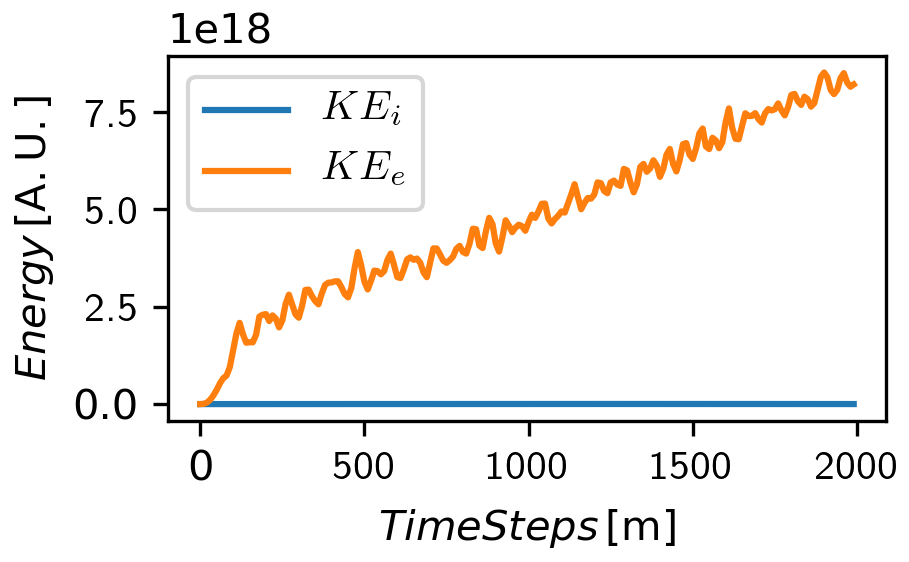
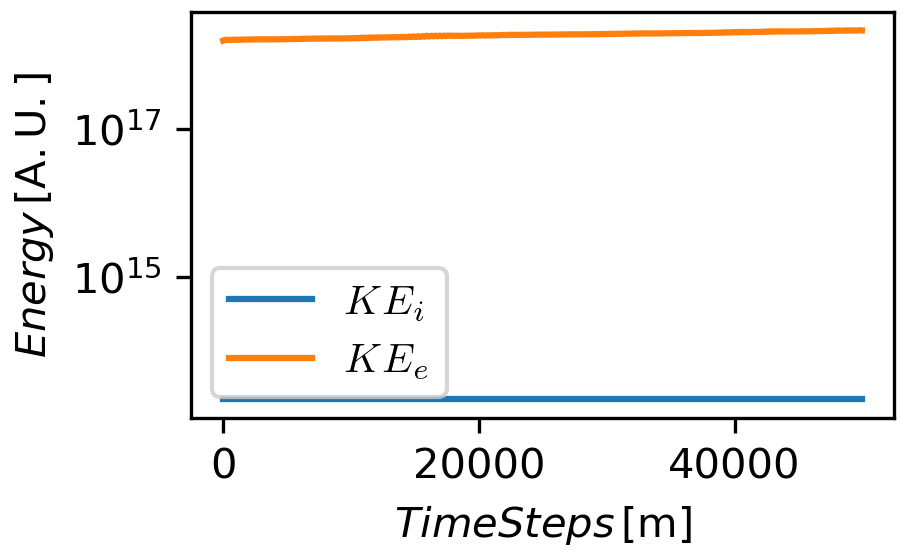
bug fix

diff --git a/scripts/timeData.py b/scripts/timeData.py
@@ -33,13 +33,13 @@ h5 = h5py.File(DIR+file_name+'.h5','r')
 # Attribute load from data h5
 dp   =  int(h5.attrs["dp"])
 Nt   =  int(h5.attrs["Nt"])
-
+nParticlesE = h5.attrs["nParticlesE"]
+nParticlesI = h5.attrs["nParticlesI"]
 # dataset index
 data_num = np.arange(start=0, stop=Nt, step=dp, dtype=int)
 
 # Data load from data h5
-data = h5["timedata/"+param]
-
+data = h5["timedata/"+param]/nParticlesE
 # ==== Figure =============
 
 ##### FIG SIZE CALC ############
@@ -56,8 +56,8 @@ mp.rc('xtick', labelsize=10)
 mp.rc('ytick', labelsize=10)
 mp.rc('legend', fontsize=10)
 
-ax.plot(data_num,data[:-1,0],label="$KE_{i}$")
-ax.plot(data_num,data[:-1,1],label="$KE_{e}$")
+ax.semilogy(data_num,data[:-1,0],label="$KE_{i}$")
+ax.semilogy(data_num,data[:-1,1],label="$KE_{e}$")
 leg = ax.legend()
 ax.set_xlabel('$TimeSteps\,[\mathrm{m}]$')
 if ("energy" in param ):

diff --git a/scripts/animateConfigSpace.py b/scripts/animateConfigSpace.py
@@ -66,7 +66,7 @@ if (show_anim == True):
         ax1.cla()
         img1 = ax1.scatter(dataex,dataey,marker='.',color='b',alpha=1.0,s=10)
         img2 = ax1.scatter(dataix,dataiy,marker='.',color='r',alpha=1.0,s=10)
-        ax1.set_title('Electron Config Space (TimeSteps = %d'%(i*dp)+')')
+        ax1.set_title('Electron/Ion Config Space (TimeSteps = %d'%(i*dp)+')')
         ax1.set_xlabel("$x$")
         ax1.set_ylabel("$y$")
         ax1.set_xlim([0, Lx])

diff --git a/src/main.cpp b/src/main.cpp
@@ -379,6 +379,8 @@ int main(int argc, char *argv[])
     writeAttributes("massI", massI);
     writeAttributes("vthE", vthE);
     writeAttributes("vthI", vthI);
+    writeIntAttributes("nParticlesE", nParticlesE);
+    writeIntAttributes("nParticlesI", nParticlesI);
 
     /*********** **** ***************/
     // double Time = 0;
